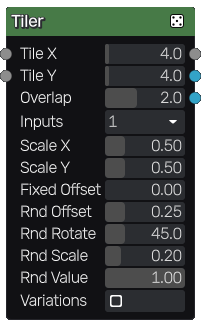
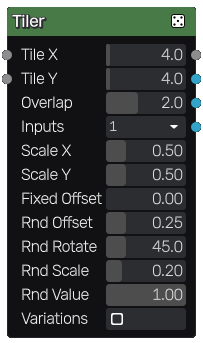
Added instance position output to Tiler node

diff --git a/material_maker/doc/node_transform_tiler.rst b/material_maker/doc/node_transform_tiler.rst
@@ -22,7 +22,7 @@ Outputs
 
 The **Tiler** node outputs the splat image and a secondary output that assigns a random color to each tile.
 
-The grayscale tiler has a third output that assigns a UV layout to each tile.
+The grayscale tiler has a third output that assigns a UV layout to each tile, and a fourth output for the position of the center of each tile.
 
 Parameters
 ++++++++++
